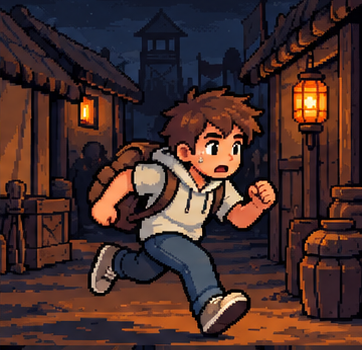
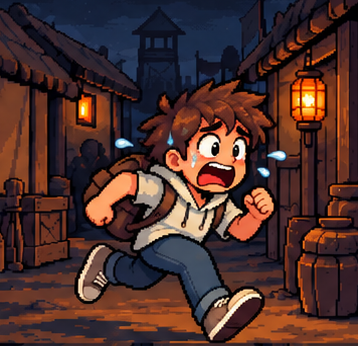
상황별 장면 이미지와 주인공 표정 개선 및 Playwright 검증 스킬 추가

diff --git a/components/game/game.module.css b/components/game/game.module.css
@@ -5,7 +5,7 @@
 .primaryButton{background:var(--primary);border:1px solid var(--primary-hover);border-radius:8px;box-shadow:0 4px 0 #a92525;color:#fff;font-weight:bold;font-size:1.1rem;padding:12px 24px;min-height:48px;display:inline-flex;align-items:center;justify-content:center;gap:30px}.primaryButton:hover{background:var(--primary-hover);color:#fff}.primaryButton:active{transform:translateY(3px);box-shadow:0 1px 0 #a92525}.primaryButton:disabled{transform:none;box-shadow:none}
 .characterName{display:grid;gap:8px;margin-bottom:18px}.characterName>strong{font-size:21px}.characterName>span{font-size:12px;color:var(--text-muted)}.statusGrid{display:grid;grid-template-columns:repeat(2,minmax(0,1fr));gap:10px}.statusGrid>div{background:var(--surface-raised);border-radius:8px;padding:12px 8px;text-align:center;display:grid;gap:6px;overflow-wrap:anywhere}.statusGrid span{font-size:.8rem;color:var(--text-muted)}.statusGrid strong{font-size:1.1rem}.radar{width:100%;max-width:290px;margin:5px auto}.radar svg{display:block;width:100%;height:auto;overflow:visible}.radarGrid{fill:none;stroke:var(--border-strong);stroke-width:1}.radarValue{fill:var(--chart-fill);stroke:var(--primary);stroke-width:2}.radar text{fill:var(--text);font-family:inherit;font-size:12px}.mobileStatus{display:none}
 .map{position:relative;width:100%;height:210px;background:radial-gradient(ellipse at 70% 35%,#2e3640,#171d28 75%);border:1px solid var(--border);border-radius:8px;overflow:hidden}.map>svg{position:absolute;width:100%;height:100%}.map path{stroke:#64748b;stroke-dasharray:4 6;fill:none}.map .mapRiver{stroke:#304965;stroke-width:8;stroke-dasharray:none;opacity:.65}.mapPin{position:absolute;transform:translate(-50%,-50%);white-space:nowrap;background:var(--surface);border:1px solid var(--border-strong);border-radius:5px;padding:4px 7px;font-size:.8rem;text-align:center;box-shadow:0 2px 8px #0005}.mapPin small{display:block;font-size:8px;margin-top:3px;color:var(--text-muted)}.hanPin{border-color:#527ab9;color:#a9caff}.yellowPin{border-color:#a47d32;color:var(--yellow)}
-.eventPanel{overflow-y:auto;text-align:center;padding:24px;min-height:0}.eventHeading{display:flex;align-items:center;justify-content:space-between;gap:10px}.eventHeading>span{font-size:10px;white-space:nowrap;color:var(--text-muted);margin-bottom:14px}.eventArt{position:relative;max-width:420px;width:100%;height:clamp(120px,18vh,190px);margin:0 auto 20px;overflow:hidden;border:3px solid var(--surface-raised);border-radius:8px;background:#080a0c}.eventArt img{object-fit:cover;object-position:95% 40%;width:200%!important;max-width:none;left:-100%!important;filter:saturate(.7)}.eventArt:after{content:'';position:absolute;inset:0;background:linear-gradient(0deg,#11131dcc,transparent 55%)}.eventArt>span{position:absolute;bottom:13px;left:15px;z-index:1;letter-spacing:2px;color:#f4dba4;font-size:10px}.eventPanel h1{font-size:25px;line-height:1.5;margin:0 0 16px}.dialogue{font-family:var(--font-body);font-size:1.1rem;line-height:1.6;word-break:keep-all;margin:16px 0 24px;color:var(--text);font-weight:400}.source{text-align:left;font-size:11px;line-height:1.8;margin-top:22px;padding-top:14px;border-top:1px solid var(--border);color:var(--text-muted)}.source summary{cursor:pointer}.source p{margin:12px 0}
+.eventPanel{overflow-y:auto;text-align:center;padding:24px;min-height:0}.eventHeading{display:flex;align-items:center;justify-content:space-between;gap:10px}.eventHeading>span{font-size:10px;white-space:nowrap;color:var(--text-muted);margin-bottom:14px}.eventArt{position:relative;max-width:420px;width:100%;height:clamp(120px,18vh,190px);margin:0 auto 20px;overflow:hidden;border:3px solid var(--surface-raised);border-radius:8px;background:#080a0c}.eventArt img{object-fit:cover;object-position:center;width:100%!important;max-width:none;left:0!important;filter:none}.eventArt:after{display:none}.eventArt>span{position:absolute;bottom:13px;left:15px;z-index:1;letter-spacing:2px;color:#f4dba4;font-size:10px}.eventPanel h1{font-size:25px;line-height:1.5;margin:0 0 16px}.dialogue{font-family:var(--font-body);font-size:1.1rem;line-height:1.6;word-break:keep-all;margin:16px 0 24px;color:var(--text);font-weight:400}.source{text-align:left;font-size:11px;line-height:1.8;margin-top:22px;padding-top:14px;border-top:1px solid var(--border);color:var(--text-muted)}.source summary{cursor:pointer}.source p{margin:12px 0}
 .historyPanel{display:flex;flex-direction:column;min-height:0}.historyLog{list-style:none;padding:0 5px 0 0;margin:0;overflow-y:auto;min-height:0;display:flex;flex-direction:column;gap:10px;scrollbar-gutter:stable}.historyLog li{background:var(--surface-raised);border-radius:8px;padding:14px 16px;border-left:3px solid transparent}.historyLog li.importantLog{border-left-color:var(--primary);background:var(--primary-tint)}.historyLog li>span{font-size:.85rem;color:var(--yellow);font-weight:700}.historyLog h3{font-size:.95rem;line-height:1.5;margin:8px 0;font-weight:normal}.historyLog p{font-size:.95rem;color:var(--text-muted);line-height:1.5;margin:6px 0 0;overflow-wrap:anywhere}
 .rankingPanel{display:flex;flex-direction:column;min-height:0;flex:1}.rankingPanel>.smallNote:first-of-type{margin:0 0 15px;font-size:10px}.tabs{display:flex;background:var(--surface-raised);border-radius:8px;padding:4px;margin-bottom:12px;gap:1px}.tabs button{flex:1;min-width:0;background:transparent;border:none;border-radius:5px;padding:9px 0;font-size:.9rem;color:var(--text-muted);font-weight:500}.tabs button[aria-pressed=true]{background:var(--surface);color:var(--yellow);box-shadow:0 2px 5px #0003;font-weight:700}.rankingList{list-style:none;padding:0;margin:0;overflow-y:auto;flex:1;min-height:0}.rankingList li{display:flex;align-items:center;gap:12px;padding:13px 5px;border-bottom:1px solid var(--border)}.rankingList li>span{color:var(--text-muted);font-size:.9rem;width:19px;text-align:center}.rankingList strong{font-size:1rem;font-weight:500;flex:1;font-weight:500}.rankingList small{display:block;color:var(--text-muted);font-size:9px;margin-top:5px}.rankingList b{font-size:1rem}.rankingList li:first-child>span,.rankingList li:first-child strong{color:var(--yellow)}.rankingList li:nth-child(3)>span{color:#d49665}
 .dialog{position:fixed;inset:0;margin:auto;height:fit-content;width:min(520px,calc(100% - 32px));max-width:none;max-height:88dvh;padding:0;background:var(--surface);color:var(--text);border:1px solid var(--border-strong);border-radius:14px;box-shadow:0 24px 70px #0009;overscroll-behavior:contain}.dialog::backdrop{background:#06070cbf;backdrop-filter:blur(5px)}.dialogBody{padding:30px;position:relative}.dialog h2{font-size:1.5rem;line-height:1.5;color:var(--primary-soft);margin:0 35px 20px 0;font-family:var(--font-logo);font-weight:400}.dialog .dialogue{font-size:1.1rem}.closeButton{position:absolute;right:17px;top:17px;background:var(--surface-raised);border:none;color:var(--text-muted);font-size:1.2rem;padding:5px 10px}.wideDialog{width:min(780px,calc(100% - 32px))}.wideDialog .map{height:min(52dvh,430px)}.wideDialog .mapPin{font-size:13px;padding:7px 11px}.wideDialog .mapPin small{font-size:10px}.choiceButtons{display:flex;flex-direction:column;gap:10px;margin-top:22px}.choiceButtons>button{padding:16px;display:flex;gap:13px;align-items:center;text-align:left;width:100%;background:var(--surface-raised);border:1px solid var(--border);border-radius:8px}.choiceButtons>button:hover{background:var(--primary-tint);border-color:var(--primary)}.choiceButtons>button>span{font-size:15px;color:var(--primary-soft)}.choiceButtons>button>div{flex:1;min-width:0}.choiceButtons strong{font-size:1rem;font-weight:normal;line-height:1.7}.choiceButtons p{font-size:.85rem;color:var(--text-muted);line-height:1.8;margin:6px 0 0}.choiceButtons b{font-size:15px;color:var(--text-muted);font-weight:normal}.factionSummary{display:flex;gap:9px;flex-wrap:wrap;margin-top:20px}.factionSummary>span{padding:8px 11px;background:var(--surface-raised);border-radius:6px;font-size:12px}.peopleList{list-style:none;margin:20px 0 0;padding:0;display:grid;grid-template-columns:repeat(2,minmax(0,1fr));gap:10px}.peopleList li{display:flex;align-items:center;gap:10px;justify-content:space-between;border:1px solid var(--border);border-radius:8px;padding:12px}.peopleList strong{font-size:13px;font-weight:normal;min-width:0;overflow-wrap:anywhere}.peopleList small{display:block;font-size:9px;color:var(--text-muted);margin-top:5px}.peopleList li>span{font-size:11px;white-space:nowrap}.dead{color:var(--primary-soft)}.alive{color:#9bd9ba}.settingsLinks{display:grid;gap:10px;margin:24px 0}.settingsLinks a{background:var(--surface-raised);padding:13px;border-radius:7px;text-decoration:none;font-size:13px}.devTools{border-top:1px solid var(--border);padding:18px 0;font-size:12px}.devTools summary{cursor:pointer;color:var(--text-muted)}.devTools button{width:100%;margin-top:12px;padding:12px;font-size:12px}.resetButton{color:var(--primary-soft);border-color:#783b40;width:100%;margin-top:15px}.ending{margin:auto;padding:24px 8px;display:flex;flex-direction:column;align-items:center;justify-content:center;min-height:100%}.endingSeal{display:grid;place-items:center;width:60px;height:64px;border:1px solid var(--primary);color:var(--primary-soft);font-size:30px;margin-bottom:24px;transform:rotate(-5deg)}.ending h1{font-size:26px;line-height:1.7}.ending>p:not(.eyebrow){font-size:14px;line-height:1.9;color:var(--text-muted);margin-bottom:25px}.ending .textButton{margin-top:18px}
@@ -62,7 +62,7 @@
 .officerStats b{color:#a3f4c6;font-size:15px}
 .officerTraits{font-size:12px;color:#d0d8e1}
 .officerTooltip>small{font-size:10px;color:#9ca8b8}
-@container(max-height:440px){.eventArt{display:none}.eventPanel h1{font-size:19px}.eventPanel>.dialogue{font-size:14px}.lastCheck p{display:none}}
+@container(max-height:440px){.eventPanel h1{font-size:19px}.eventPanel>.dialogue{font-size:14px}.lastCheck p{display:none}}
 @container(max-height:320px){.eventPanel h1{font-size:17px}.eventPanel>.dialogue{font-size:13px;line-height:1.45;margin:4px 0 10px}.eventHeading{margin-bottom:6px}}
 @media(max-width:768px){
   .eventPanel{height:calc(100svh - var(--event-top,230px) - 14px);min-height:230px;flex:none;padding:14px}
@@ -79,3 +79,10 @@
 .recordText{white-space:pre-line}
 .typingCursor{background:none;border:0;color:var(--text-muted);padding:0;cursor:pointer}
 .choiceArt{display:block;width:100%;aspect-ratio:3/2;object-fit:cover;image-rendering:pixelated;border-radius:5px;margin:0 0 12px}
+
+.eventPanel{container-type:normal;overflow-y:auto}
+.eventPanel .eventArt{display:block;flex:1 0 150px;min-height:150px;max-height:280px;height:clamp(150px,27vh,280px);width:100%;max-width:680px;align-self:center;margin:0 auto 14px;background:#131722}
+.eventPanel .eventArt img{object-fit:contain!important;image-rendering:pixelated}
+.eventPanel h1{font-size:23px}
+.eventPanel>.dialogue{font-size:16px;line-height:1.65}
+@media(max-width:768px){.eventPanel{height:auto;min-height:max(480px,calc(100svh - var(--event-top,230px) - 14px));overflow:visible}.eventPanel .eventArt{flex:none;height:clamp(180px,29svh,280px);max-height:none;min-height:180px}.eventPanel h1{font-size:21px}.eventPanel>.dialogue{font-size:16px}.eventPanel>.primaryButton{margin-top:16px}}

diff --git a/lib/scene-art.ts b/lib/scene-art.ts
@@ -1,0 +1,23 @@
+import type { GameEvent } from './event-engine';
+const scene = (name: string, alt: string) => ({ src: `/art/scenes/${name}.png`, alt });
+const action = (name: string, alt: string) => ({ src: `/art/choices/${name}.png`, alt });
+export function sceneArt(event: Pick<GameEvent, 'id' | 'state'>) {
+  const node = event.state.flowProgress?.nodeId;
+  if (event.id === 'chapter-5-1-opening') return node === 'front'
+    ? action('strategy', '당황한 주인공이 지도를 살피며 탁군·완성·광종으로 향할 길을 고민한다')
+    : scene('opening', '죽창을 쥔 주인공이 황건적과 관군 사이에서 눈을 크게 뜨고 당황한다');
+  if (event.id === 'chapter-5-1-closing') return action('porridge', '싸움이 잦아든 뒤 모닥불 앞에서 안도하며 죽을 먹는 주인공');
+  if (node === 'civilian') return action('relief', '겁먹은 피란민과 짐수레 사이에서 주인공이 대피할 길을 찾는다');
+  if (event.id === 'battle-184-daxingshan') return node === 'yellow-plan'
+    ? action('duel', '긴장한 주인공이 대흥산 전장에서 무기를 들고 상대와 마주한다')
+    : scene('heroes', '유비·관우·장비를 실제로 만난 주인공이 놀라 입을 벌린다');
+  if (event.id === 'battle-184-qingzhou-city') return action('ambush', '수풀에 숨은 주인공이 긴장하며 청주성 앞의 매복을 살핀다');
+  if (event.id === 'battle-184-wan') return node === 'surrender'
+    ? action('negotiate', '주인공이 항복한 사람들의 처우를 두고 다급하게 대화를 청한다')
+    : scene('siege', '완성 성벽 아래의 사다리와 피란민을 보며 주인공이 다급하게 외친다');
+  if (event.id === 'battle-184-guangzong') return node === 'han-plan'
+    ? action('official', '주인공이 관군 관리에게 억울한 상황을 알리려 항의한다')
+    : scene('night-raid', '광종 군영의 밤, 주인공이 땀을 흘리며 수풀과 야습 병사들을 살핀다');
+  if (event.id === 'battle-184-xiaquyang') return scene('siege', '하곡양의 성벽과 피란민 사이에서 주인공이 마지막 포위전에 긴장한다');
+  return null;
+}

diff --git a/components/game/GameDashboard.tsx b/components/game/GameDashboard.tsx
@@ -1,6 +1,6 @@
 "use client";
 import Image from "next/image";
-import titleScreen from "@/public/title-screen.png";
+import { sceneArt } from "@/lib/scene-art";
 import Link from "@/components/HostedLink";
 import { useEffect, useRef, useState } from "react";
 import type { Game, Stats } from "@/lib/game";
@@ -72,6 +72,7 @@ export default function GameDashboard({
       close();
     }
   };
+  const art = event ? sceneArt(event) : null;
   const lastDecision = game.decisions.at(-1);
   const preserved = view.world.factions["yellow-turban"] === "preserved";
   return (
@@ -175,20 +176,9 @@ export default function GameDashboard({
                     </p>
                     {event.historical && <button className={s.sourceButton} onClick={() => setModal('source')}>사건 기록과 출처 ↗</button>}
                   </div>
-                  <div className={s.eventArt}>
-                    <Image
-                      src={
-                        process.env.NEXT_PUBLIC_CACHE_ENABLED === "true"
-                          ? titleScreen
-                          : "/title-screen.png"
-                      }
-                      alt="모닥불 주변에서 대화하는 사람들"
-                      fill
-                      priority
-                      sizes="(max-width: 768px) 90vw, 420px"
-                    />
-                    <span>184 / 黃巾之亂</span>
-                  </div>
+                  {art && <div className={s.eventArt} data-testid="scene-art">
+                    <Image src={art.src} alt={art.alt} fill priority sizes="(max-width: 768px) 90vw, 640px" />
+                  </div>}
                   <h1><OfficerText text={event.title} /></h1>
                   <p className={s.dialogue}><OfficerText text={event.scene} /></p>
                   <button

diff --git a/lib/scene-art.test.ts b/lib/scene-art.test.ts
@@ -1,0 +1,25 @@
+import { describe, expect, it } from 'vitest';
+import { existsSync } from 'node:fs';
+import path from 'node:path';
+import { historicalEvents } from './history';
+import type { Game } from './game';
+import { sceneArt } from './scene-art';
+describe('현재 상황의 장면 이미지', () => {
+  it('20개 선택 장면 모두에 존재하는 이미지를 연결한다', () => {
+    let count = 0;
+    for (const event of historicalEvents) for (const node of event.flow?.nodes ?? []) {
+      if (node.type !== 'choice') continue;
+      count++;
+      const art = sceneArt({ id: event.id, state: { flowProgress: { eventId: event.id, nodeId: node.id } } as Game });
+      expect(art, `${event.id}:${node.id}`).not.toBeNull();
+      expect(existsSync(path.join(process.cwd(), 'public', art!.src))).toBe(true);
+    }
+    expect(count).toBe(20);
+  });
+  it('같은 사건도 피란민·협상·전투 문맥을 구분한다', () => {
+    const art = (nodeId: string) => sceneArt({ id: 'battle-184-wan', state: { flowProgress: { eventId: 'battle-184-wan', nodeId } } as Game });
+    expect(art('civilian')?.src).toContain('relief');
+    expect(art('surrender')?.src).toContain('negotiate');
+    expect(art('han-plan')?.src).toContain('siege');
+  });
+});

diff --git a/.agents/skills/playwright-page-check/SKILL.md b/.agents/skills/playwright-page-check/SKILL.md
@@ -1,0 +1,22 @@
+---
+name: playwright-page-check
+description: Use Playwright to verify a web page in desktop and mobile Chromium, exercise user interactions, check image visibility and layout, capture screenshots, and report browser errors.
+---
+
+# Playwright page check
+
+Use when the user asks to inspect a page, verify a UI change, or check responsive layout with Playwright. Read the target project's AGENTS.md and preview instructions first. Reuse installed Playwright and Chromium; check the project's dependencies and `/opt/codex/cua_node/lib/node_modules/playwright` before installing anything.
+
+1. Identify the intended checkout and page. Start its documented preview command only when needed, keep the process session, and stop only the server you started after verification.
+2. Use a fresh browser context for test saves. Never clear the user's real browser data. Use the user-visible start form and controls for interactive checks.
+3. Run the supplied script with an explicit URL and artifact directory:
+   `node .agents/skills/playwright-page-check/scripts/check-page.cjs http://localhost:4173 /tmp/page-check`
+4. For application-specific steps, create an additional script that uses semantic selectors (`getByRole`, `getByLabel`, stable `data-testid`). Wait for visible UI or loaded images rather than arbitrary long sleeps. Check desktop 1440×1000, mobile 390×844, and a short desktop viewport where relevant.
+5. Assert that intended images have a nonzero natural size and visible bounds, controls work, dialogs scroll, and the document has no horizontal overflow. Capture screenshots after the relevant interaction, not just the landing page. Collect page errors and failed same-origin requests; classify unrelated external font/network failures separately.
+6. Inspect the captured screenshots with `view_image`. Fix actual failures, then repeat the affected checks. Report exactly which scenarios passed and any unverified behavior. A successful build alone is not a browser check.
+
+For a private deployed site, use the supported Sites sign-in flow or an authorized short-lived bypass token. Keep tokens in memory or process stdin; never put them in files, screenshots, source, command-line arguments, logs, or Git. Do not bypass network policy or invent credentials. If private access cannot be established, verify the same built artifact locally and state that production browser access is unverified.
+
+Keep page-check artifacts outside Git. Persist this skill in the project's `.agents/skills` and optionally the current user's `~/.codex/skills` so a future session can discover it. Do not overwrite an existing user skill with the same name.
+
+For this game, run `node .agents/skills/playwright-page-check/scripts/check-tk-survival.cjs http://localhost:4173 /tmp/tk-game-browser`. It verifies game start, visible scene art, three choice images, next-scene changes, desktop/mobile/short-desktop layouts, and browser errors.

diff --git a/docs/PIXEL_ART.md b/docs/PIXEL_ART.md
@@ -13,3 +13,11 @@
 기준 이미지와 장면은 image_gen으로 생성했다. 생성 원본 두 장은 `/workspace/generated_images`에 보존했으며, 런타임에는 장면별로 추출한 PNG를 사용한다.
 
 장수 이름은 기본 글자색과 굵은 글씨를 사용한다. 5.1에서 확인한 인물만 연결하며 일반 명사 `장수`, `전의` 및 문맥을 확정할 수 없는 일반어 동형 이름은 자동 연결에서 제외한다. 모호한 인명을 추가하려면 먼저 사용자에게 문맥을 확인한다.
+
+## 상황 장면과 표정 개정
+
+현재 상황 카드에는 `lib/scene-art.ts`가 사건·선택 노드별로 장면을 연결한다. 시작·유비 일행 만남·광종 야습·성벽 포위전은 `public/art/scenes`의 전용 그림을 쓴다. 공통 피란·지도·협상·매복·마무리는 행동 이미지와 공유한다. 알려지지 않은 사건에는 장면을 임의로 붙이지 않는다.
+
+행동 이미지 19종의 주인공 표정을 재생성했다. 겁먹은 비명, 어색한 위장 웃음, 결의, 긴장, 능청스러운 매복, 항의, 안도 등 눈썹·입·땀 표현으로 감정을 구분한다. 기준 캐릭터의 머리·복장·배낭·3등신 비율은 유지한다.
+
+페이지 확인은 `.agents/skills/playwright-page-check/SKILL.md`를 사용한다. 사용자 스킬 경로에도 같은 스킬을 설치해 다음 작업에서 재사용할 수 있게 했다.
